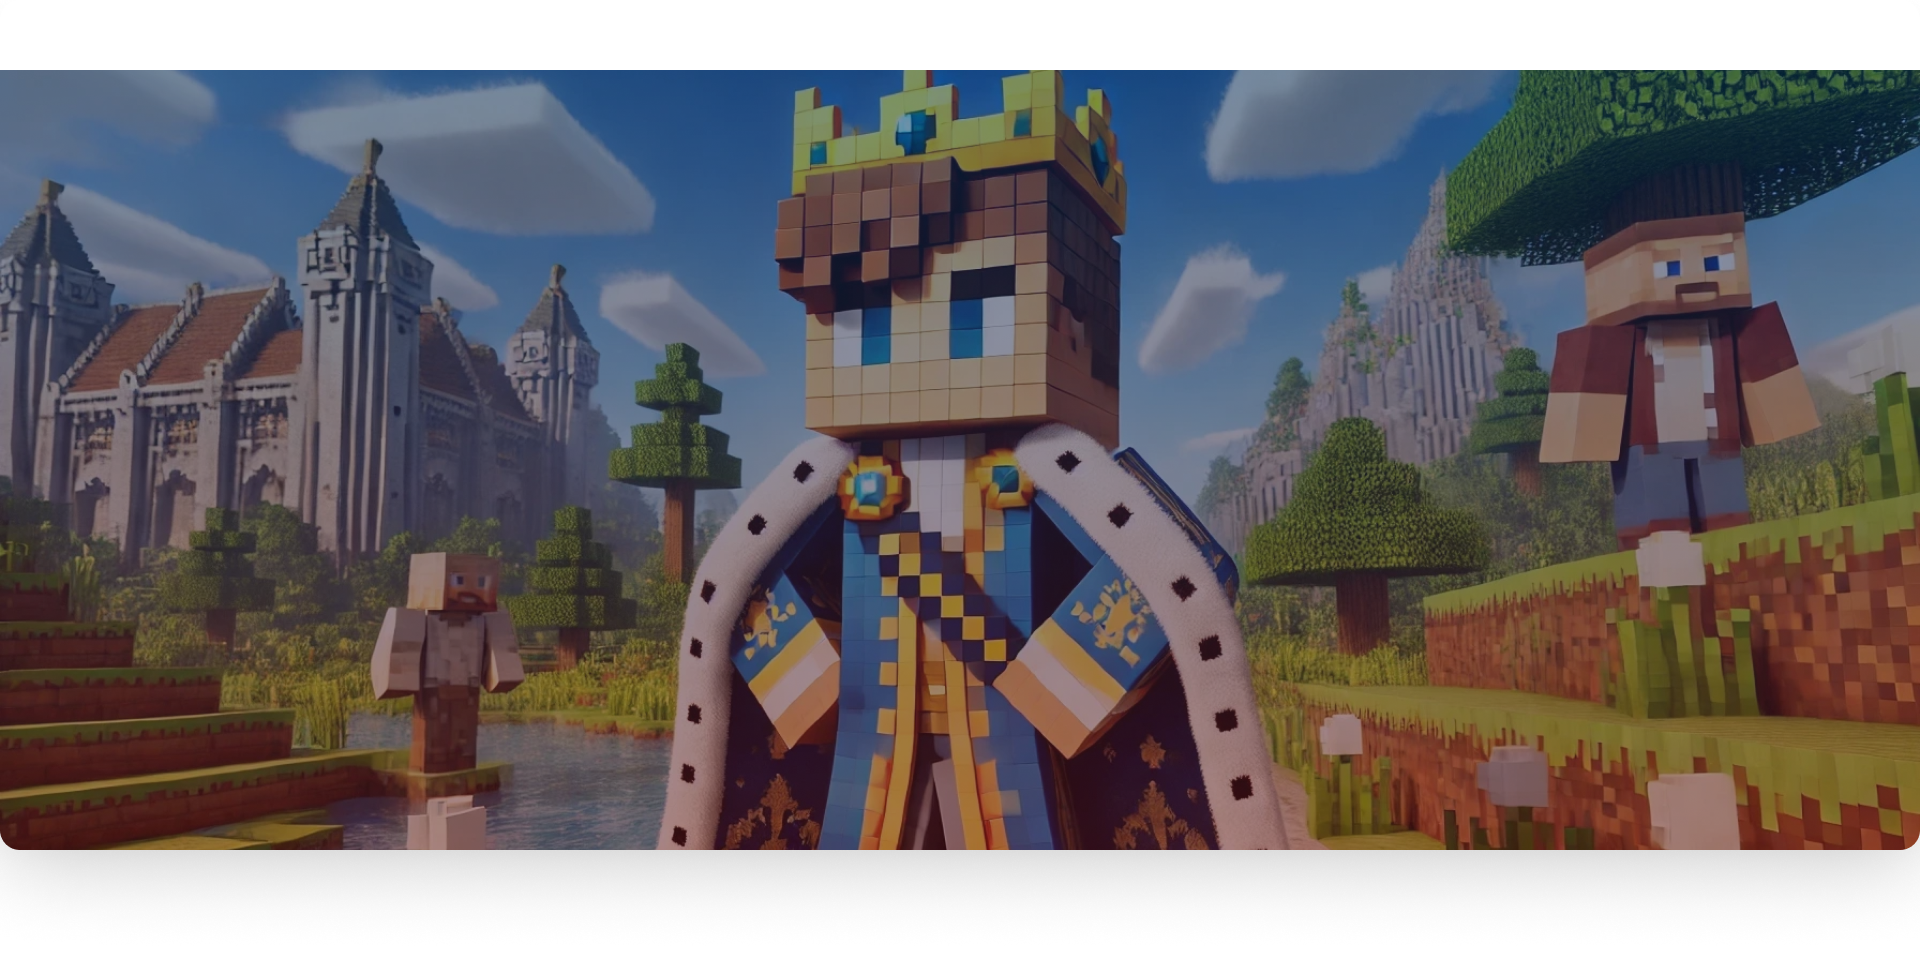
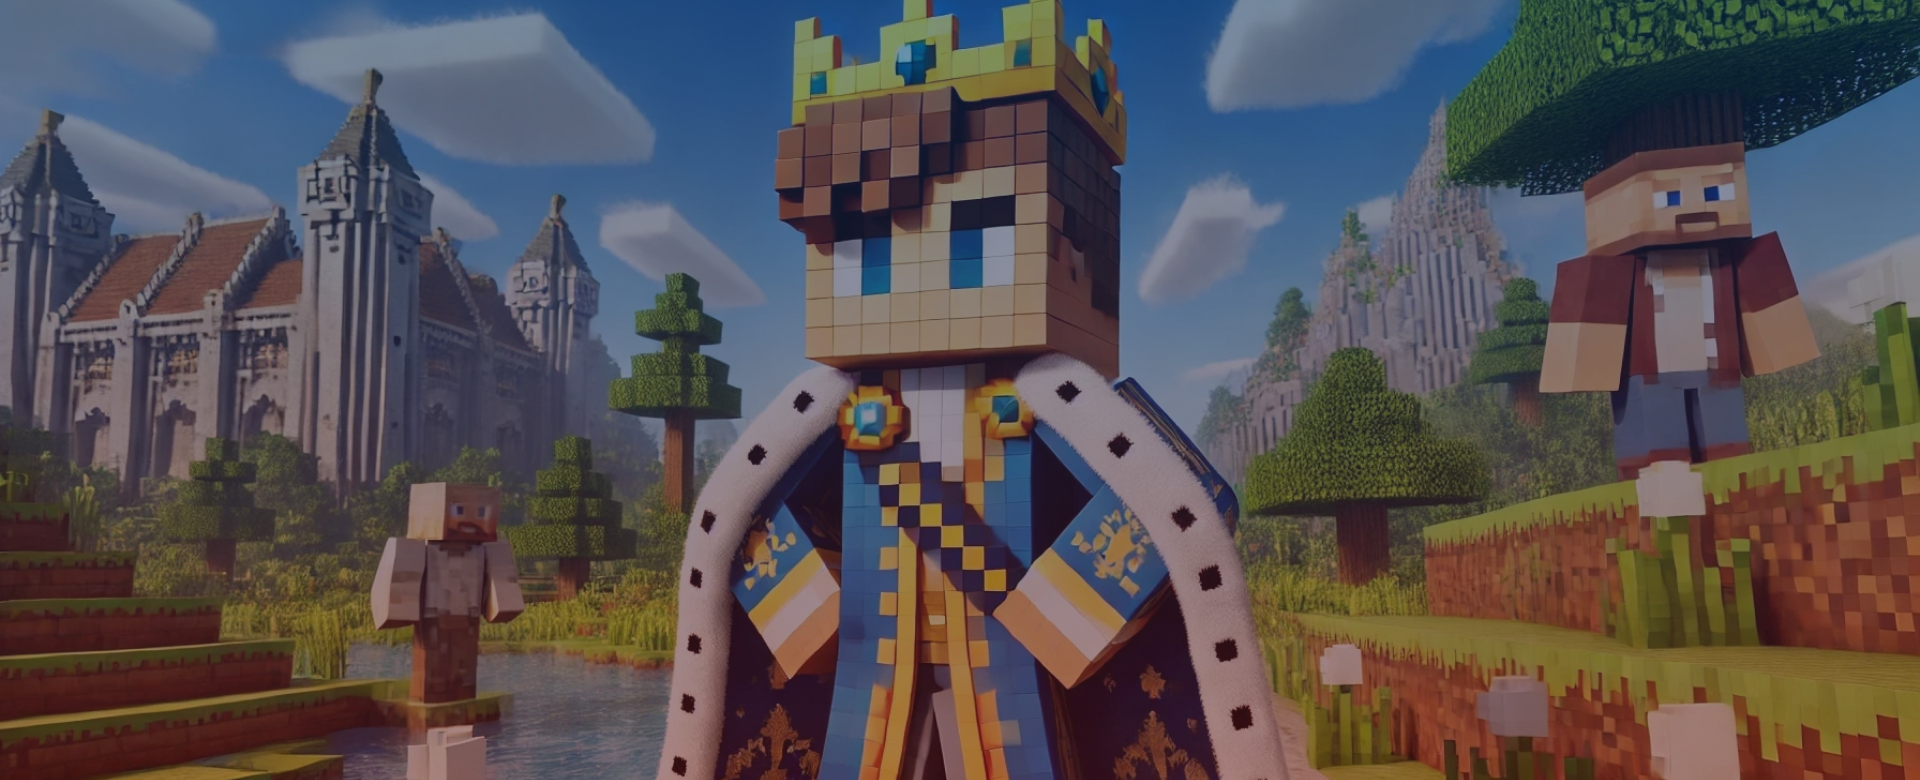
fixes

diff --git a/script.js b/script.js
@@ -1,3 +1,163 @@
+// const servers = [
+//     {
+//         title: 'Герцог',
+//         images: ['img/gerzogBig.png'],
+//         price: ['39р']
+//     },
+//     {
+//         title: 'Князь',
+//         images: ['img/knyazBig.png'],
+//         price: ['49р']
+//     },
+//     {
+//         title: 'Принц',
+//         images: ['img/prinzBig.png'],
+//         price: ['129р']
+//     },
+//     {
+//         title: 'Титан',
+//         images: ['img/titanBig.png'],
+//         price: ['249р']
+//     },
+//     {
+//         title: 'Элита',
+//         images: ['img/eliteBig.png'],
+//         price: ['349р']
+//     },
+//     {
+//         title: 'Глава',
+//         images: ['img/glavaBig.png'],
+//         price: ['549р']
+//     },
+//     {
+//         title: 'Сквид',
+//         images: ['img/squidBig.png'],
+//         price: ['879р']
+//     },
+//     {
+//         title: 'Аспид',
+//         images: ['img/aspidBig.png'],
+//         price: ['1299р']
+//     },
+//     {
+//         title: 'Герой',
+//         images: ['img/heroBig.png'],
+//         price: ['1799р']
+//     },
+//     {
+//         title: 'Страж',
+//         images: ['img/strazhBig.png'],
+//         price: ['2799р']
+//     },
+//     {
+//         title: 'Привилегии',
+//         images: ['img/prevelegeCaseBig.png'],
+//         price: ['50р']
+//     },
+//     {
+//         title: 'Монеты',
+//         images: ['img/coinsCaseBig.png'],
+//         price: ['50р']
+//     },
+//     {
+//         title: 'Незеры',
+//         images: ['img/nezersCaseBig.png'],
+//         price: ['50р']
+//     },
+//     {
+//         title: 'Титулы',
+//         images: ['img/tituleCaseBig.png'],
+//         price: ['50р']
+//     },
+//     {
+//         title: 'Монеты',
+//         images: ['img/coinsBig.png'],
+//         price: ['1р']
+//     },
+//     {
+//         title: 'Незеры',
+//         images: ['img/nezersBig.png'],
+//         price: ['1р']
+//     }
+// ];
+
+// let currentServer = 0;
+// let currentImage = 0;
+
+// function loadServer(serverIndex) {
+//     document.getElementById('serverTitle').textContent = servers[serverIndex].title;
+//     document.getElementById('price').textContent = servers[serverIndex].price;
+//     loadGalleryImage(0);
+
+//     const changeBlock = document.querySelector('.change');
+//     if (servers[serverIndex].title === 'Монеты' && servers[serverIndex].price[0] === '1р' ||
+//         servers[serverIndex].title === 'Незеры' && servers[serverIndex].price[0] === '1р') {
+//         changeBlock.style.display = 'flex';
+//     } else {
+//         changeBlock.style.display = 'none';
+//     }
+//     const kollCaseBlock = document.querySelector('.kollCase');
+//     if (servers[serverIndex].title === 'Привилегии' && servers[serverIndex].price[0] === '50р' ||
+//         servers[serverIndex].title === 'Монеты' && servers[serverIndex].price[0] === '50р' ||
+//         servers[serverIndex].title === 'Незеры' && servers[serverIndex].price[0] === '50р' ||
+//         servers[serverIndex].title === 'Титулы' && servers[serverIndex].price[0] === '50р') {
+//         kollCaseBlock.style.display = 'flex';
+//     } else {
+//         kollCaseBlock.style.display = 'none';
+//     }
+
+//     document.querySelectorAll('.buyingCard select').forEach(selectElement => {
+//         selectElement.addEventListener('change', function () {
+//             if (selectElement.closest('.buyingCard').querySelector('.open-server-modal').getAttribute('data-server-id') == serverIndex) {
+//                 document.getElementById('koll').value = selectElement.value;
+//             }
+//         });
+//     });
+// }
+
+// document.querySelectorAll('.open-server-modal').forEach(button => {
+//     button.addEventListener('click', function (e) {
+//         e.preventDefault();
+//         currentServer = parseInt(button.getAttribute('data-server-id'));
+//         loadServer(currentServer);
+//         document.getElementById('serverModal').style.display = 'block';
+//     });
+// });
+
+// document.getElementById('closeModal').onclick = function () {
+//     document.getElementById('serverModal').style.display = 'none';
+// }
+
+// function loadGalleryImage(imageIndex) {
+//     document.getElementById('galleryImage').src = servers[currentServer].images[imageIndex];
+// }
+
+
+
+
+
+
+
+
+
+
+
+
+
+
+
+
+
+
+
+
+
+
+
+
+
+
+
 const servers = [
     {
         title: 'Герцог',
@@ -89,27 +249,35 @@ function loadServer(serverIndex) {
     document.getElementById('price').textContent = servers[serverIndex].price;
     loadGalleryImage(0);
 
-    // Проверяем, какой сервер выбран, и показываем или скрываем блок с классом "change"
+    // Обновляем заголовок в зависимости от выбранного блока
+    const nameOfBuying = document.getElementById('nameOfBuying');
+    const title = servers[serverIndex].title;
+
+    if (['Герцог', 'Князь', 'Принц', 'Титан', 'Элита', 'Глава', 'Сквид', 'Аспид', 'Герой', 'Страж'].includes(title)) {
+        nameOfBuying.textContent = 'привилегии';
+    } else if (['Привилегии', 'Монеты', 'Незеры', 'Титулы'].includes(title) && servers[serverIndex].price[0] === '50р') {
+        nameOfBuying.textContent = 'кейса';
+    } else if (['Монеты', 'Незеры'].includes(title) && servers[serverIndex].price[0] === '1р') {
+        nameOfBuying.textContent = '';
+    } else {
+        nameOfBuying.textContent = 'Привилегии'; // значение по умолчанию
+    }
+
     const changeBlock = document.querySelector('.change');
-    if (servers[serverIndex].title === 'Монеты' && servers[serverIndex].price[0] === '1р' ||
-        servers[serverIndex].title === 'Незеры' && servers[serverIndex].price[0] === '1р') {
+    if (title === 'Монеты' && servers[serverIndex].price[0] === '1р' ||
+        title === 'Незеры' && servers[serverIndex].price[0] === '1р') {
         changeBlock.style.display = 'flex';
     } else {
         changeBlock.style.display = 'none';
     }
 
-    // Проверяем, какой сервер выбран, и показываем или скрываем блок с классом "kollCase"
     const kollCaseBlock = document.querySelector('.kollCase');
-    if (servers[serverIndex].title === 'Привилегии' && servers[serverIndex].price[0] === '50р' ||
-        servers[serverIndex].title === 'Монеты' && servers[serverIndex].price[0] === '50р' ||
-        servers[serverIndex].title === 'Незеры' && servers[serverIndex].price[0] === '50р' ||
-        servers[serverIndex].title === 'Титулы' && servers[serverIndex].price[0] === '50р') {
+    if (['Привилегии', 'Монеты', 'Незеры', 'Титулы'].includes(title) && servers[serverIndex].price[0] === '50р') {
         kollCaseBlock.style.display = 'flex';
     } else {
         kollCaseBlock.style.display = 'none';
     }
 
-    // Синхронизация значения селектора карточки с инпутом "koll"
     document.querySelectorAll('.buyingCard select').forEach(selectElement => {
         selectElement.addEventListener('change', function () {
             if (selectElement.closest('.buyingCard').querySelector('.open-server-modal').getAttribute('data-server-id') == serverIndex) {

diff --git a/style.css b/style.css
@@ -27,16 +27,17 @@ nav {
 
 .headImg {
     background-image: url(img/backgroundimg.png);
-    background-position: center;
+    background-size: cover;
     height: 800px;
+    min-height: 300px;
     display: flex;
     justify-content: center;
     align-items: center;
+    border-radius: 20px;
 }
 
 .headImgBlock {
-    padding: 20px;
-    border-radius: 15px;
+
     text-align: center;
 }
 
@@ -255,8 +256,8 @@ form {
   
   .right-block img {
     width: 100%;
-    height: 100%; /* Чтобы не превышать высоту блока */
-    object-fit: cover;
+    height: 100%; 
+    object-fit: fill;
     border-radius: 20px;
   }
   
@@ -391,15 +392,24 @@ label {
     flex-direction: column;
 }
 
+svg {
+    margin-bottom: 20px;
+}
+
 
 @media (max-width: 992px) {
+
+    .container {
+    padding-right: 5px;
+    padding-left: 5px;
+    }
   
     .modal-content {
       display: flex;
       flex-direction: column;
-      margin: 1%;
+      margin: 0%;
       width: 98%;
-      height: 90%;
+      height: 99%;
     }
   
     .left-block {
@@ -435,7 +445,7 @@ label {
     }
   
     #serverTitle {
-      font-size: 40px;
+      font-size: 25px;
     }
 
     .container .ip {
@@ -485,6 +495,41 @@ label {
 
     .headImgBlock {
         padding: auto;
+    }
+
+    .priceBlock p {
+        font-size: 13px;
+        height: 10px;
+    }
+
+    .buy a {
+        width: 100px;
+        font-size: 15px;
+        padding: 10px 0;
+    }
+    
+    #price {
+        font-size: 20px;
+        height: 20px;
+    }
+
+    .block-container h4 {
+        font-size: 30px;
+    }
+
+    .change {
+    flex-direction: column;
+    align-items: flex-start;
+    justify-content: center;
+    }
+
+    .changeInputs {
+        width: 100%;
+    }
+
+    svg {
+        margin-bottom: 0;
+        display: none;
     }
   }
   

diff --git a/index.html b/index.html
@@ -247,14 +247,14 @@
                     <div class="change">
                         <div class="changeInputs">
                             <label for="nik">Будет получено Неверов</label>
-                            <input class="formToDonate" type="text" name="nik" placeholder="Введите кол-во Неверов">
+                            <input class="formToDonate" type="text" name="nik" placeholder="Введите кол-во Неверов" style="width: 100%;">
                         </div>
-                        <svg width="16" height="12" viewBox="0 0 16 12" fill="none" xmlns="http://www.w3.org/2000/svg" style="margin-bottom:20px">
+                        <svg width="16" height="12" viewBox="0 0 16 12" fill="none" xmlns="http://www.w3.org/2000/svg">
                             <path d="M16 10H3.996V12L0 9L3.996 6V8H16V10ZM0 4H12V6L16 3L12 0V2H0V4Z" fill="#356EFF" />
                         </svg>
                         <div class="changeInputs">
                             <label for="nik">Будет заплачено р.</label>
-                            <input class="formToDonate" type="text" name="nik" placeholder="Введите кол-во р.">
+                            <input class="formToDonate" type="text" name="nik" placeholder="Введите кол-во р." style="width: 100%;">
                         </div>
                     </div>
                 </form>
